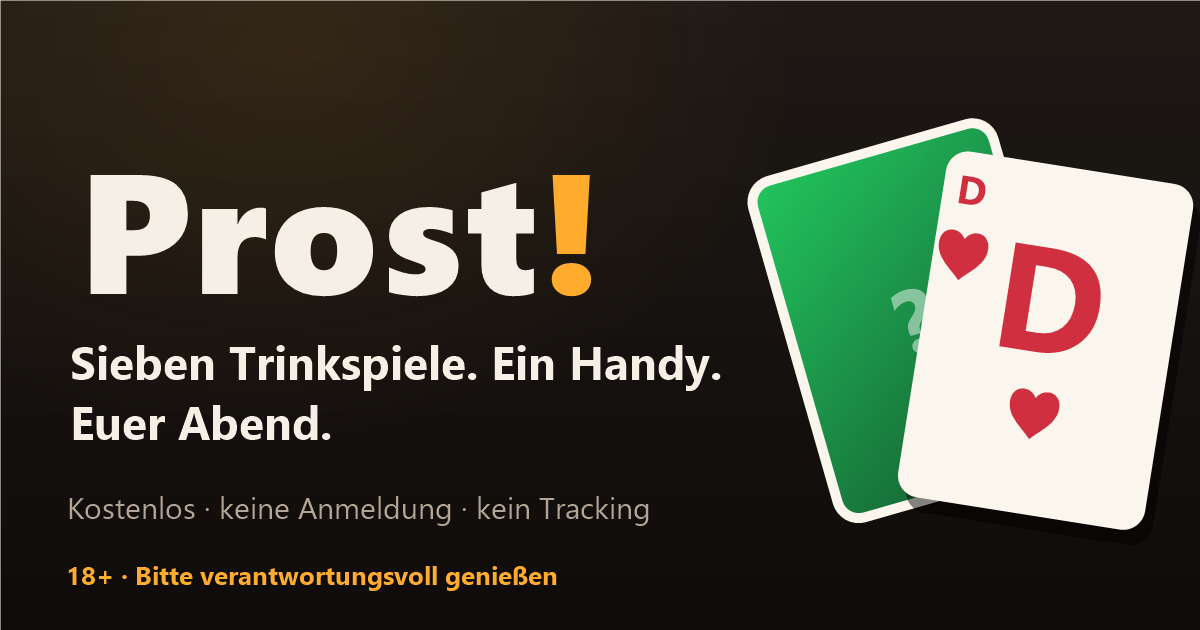
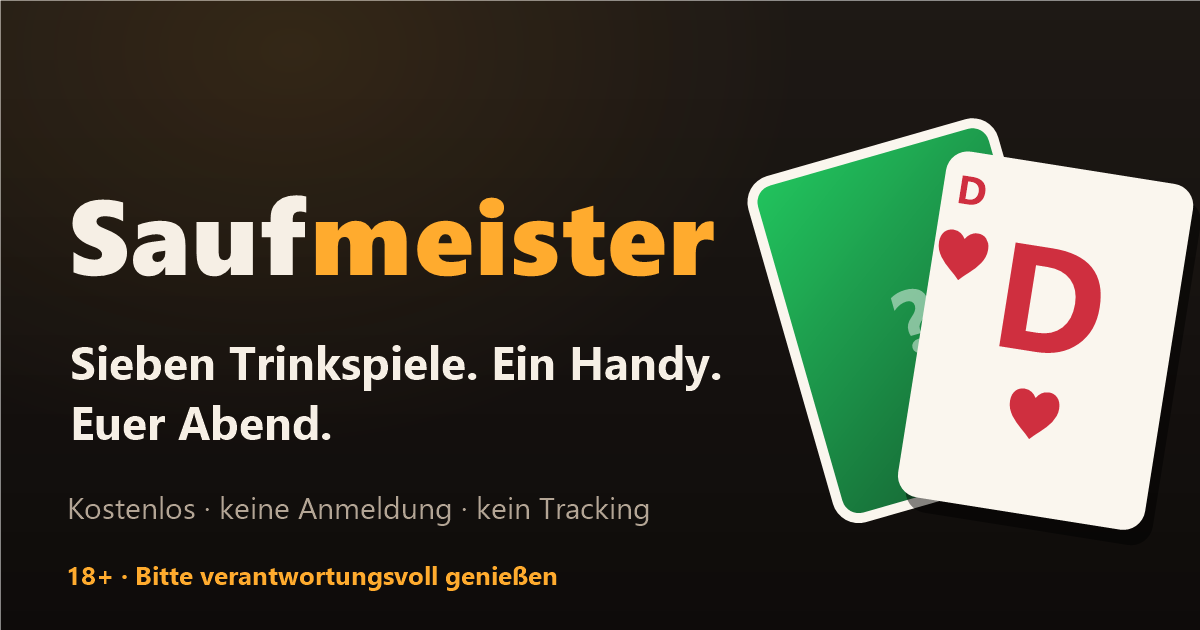
Add files via upload

Changed region(s): [[0.0617, 0.2714, 0.6167, 0.4825]]

diff --git a/index.html b/index.html
@@ -4,14 +4,14 @@
   <meta charset="utf-8">
   <meta name="viewport" content="width=device-width, initial-scale=1, viewport-fit=cover">
   <meta http-equiv="Content-Security-Policy" content="default-src 'self'; script-src 'self'; style-src 'self'; img-src 'self' data:; base-uri 'none'; form-action 'none'; object-src 'none'; frame-ancestors 'none'">
-  <title>Trinkspiele online – 7 kostenlose Partyspiele | Prost!</title>
+  <title>Trinkspiele online – 7 kostenlose Partyspiele | Saufmeister</title>
   <meta name="description" content="7 kostenlose Trinkspiele für euren Partyabend: Ich hab noch nie, Wer würde eher, Bluff, Geheimmissionen & mehr. Ohne App, ohne Anmeldung – direkt im Browser. Ab 18.">
   <meta name="theme-color" content="#161210">
-  <meta property="og:title" content="Prost! – 7 Trinkspiele für euren Partyabend">
+  <meta property="og:title" content="Saufmeister – 7 Trinkspiele für euren Partyabend">
   <meta property="og:description" content="Sieben Trinkspiele, ein Handy, euer Abend. Direkt im Browser spielen – ohne Anmeldung, ohne App-Download.">
   <meta property="og:type" content="website">
   <meta property="og:locale" content="de_DE">
-  <meta property="og:site_name" content="Prost!">
+  <meta property="og:site_name" content="Saufmeister">
   <!-- TODO vor Launch: Domain eintragen und die naechsten Zeilen einkommentieren.
        canonical und og:url je Seite anpassen (z. B. /spiele/bluff.html).
   <link rel="canonical" href="https://DEINE-DOMAIN.de/">
@@ -19,20 +19,20 @@
   <meta property="og:image" content="https://DEINE-DOMAIN.de/assets/img/og-image.png">
   <meta property="og:image:width" content="1200">
   <meta property="og:image:height" content="630">
-  <meta property="og:image:alt" content="Prost! - Sieben Trinkspiele fuer euren Partyabend">
+  <meta property="og:image:alt" content="Saufmeister - Sieben Trinkspiele fuer euren Partyabend">
   <meta name="twitter:card" content="summary_large_image">
   -->
   <link rel="icon" href="assets/img/favicon.svg" type="image/svg+xml">
   <link rel="apple-touch-icon" href="assets/img/apple-touch-icon.png">
   <link rel="manifest" href="manifest.webmanifest">
   <link rel="stylesheet" href="assets/css/style.css">
-  <script type="application/ld+json">{"@context":"https://schema.org","@graph":[{"@type":"WebSite","name":"Prost!","description":"Sieben kostenlose Trinkspiele für den Partyabend – direkt im Browser, ohne Anmeldung.","inLanguage":"de"},{"@type":"ItemList","name":"Trinkspiele auf Prost!","itemListElement":[{"@type":"ListItem","position":1,"name":"Ich hab noch nie"},{"@type":"ListItem","position":2,"name":"Wer würde eher"},{"@type":"ListItem","position":3,"name":"Pass the Phone"},{"@type":"ListItem","position":4,"name":"Double or Nothing"},{"@type":"ListItem","position":5,"name":"Wahr oder falsch"},{"@type":"ListItem","position":6,"name":"Bluff"},{"@type":"ListItem","position":7,"name":"Geheimmissionen"}]}]}</script>
+  <script type="application/ld+json">{"@context":"https://schema.org","@graph":[{"@type":"WebSite","name":"Saufmeister","description":"Sieben kostenlose Trinkspiele für den Partyabend – direkt im Browser, ohne Anmeldung.","inLanguage":"de"},{"@type":"ItemList","name":"Trinkspiele auf Saufmeister","itemListElement":[{"@type":"ListItem","position":1,"name":"Ich hab noch nie"},{"@type":"ListItem","position":2,"name":"Wer würde eher"},{"@type":"ListItem","position":3,"name":"Pass the Phone"},{"@type":"ListItem","position":4,"name":"Double or Nothing"},{"@type":"ListItem","position":5,"name":"Wahr oder falsch"},{"@type":"ListItem","position":6,"name":"Bluff"},{"@type":"ListItem","position":7,"name":"Geheimmissionen"}]}]}</script>
 </head>
 <body>
   <div class="app">
 
     <header class="hero">
-      <h1 class="hero__brand">Prost<em>!</em></h1>
+      <h1 class="hero__brand">Sauf<em>meister</em></h1>
       <p class="hero__tagline">Sieben Trinkspiele. Ein Handy. Euer Abend.</p>
     </header>
 
@@ -145,7 +145,7 @@
     <section class="about">
       <h2>Trinkspiele ohne App und ohne Anmeldung</h2>
       <p>
-        Prost! ist eine kostenlose Sammlung von Trinkspielen für den Abend mit
+        Saufmeister ist eine kostenlose Sammlung von Trinkspielen für den Abend mit
         Freunden – vom Klassiker <a href="spiele/ich-hab-noch-nie.html">Ich hab
         noch nie</a> über das Karten-Zockerspiel
         <a href="spiele/double-or-nothing.html">Double or Nothing</a> bis zu den

diff --git a/spiele/bluff.html b/spiele/bluff.html
@@ -4,14 +4,14 @@
   <meta charset="utf-8">
   <meta name="viewport" content="width=device-width, initial-scale=1, viewport-fit=cover">
   <meta http-equiv="Content-Security-Policy" content="default-src 'self'; script-src 'self'; style-src 'self'; img-src 'self' data:; base-uri 'none'; form-action 'none'; object-src 'none'; frame-ancestors 'none'">
-  <title>Bluff – Quiz-Trinkspiel online spielen | Prost!</title>
+  <title>Bluff – Quiz-Trinkspiel online spielen | Saufmeister</title>
   <meta name="description" content="Bluff online spielen: Setze Schlücke, erfinde eine überzeugende falsche Quiz-Antwort und lege deine Freunde rein. Fällt die Gruppe auf deinen Bluff rein, gewinnst du doppelt.">
   <meta name="theme-color" content="#161210">
-  <meta property="og:title" content="Bluff – Quiz-Trinkspiel | Prost!">
+  <meta property="og:title" content="Bluff – Quiz-Trinkspiel | Saufmeister">
   <meta property="og:description" content="Erfinde die perfekte falsche Antwort – fällt die Gruppe darauf rein, verteilst du den doppelten Einsatz.">
   <meta property="og:type" content="website">
   <meta property="og:locale" content="de_DE">
-  <meta property="og:site_name" content="Prost!">
+  <meta property="og:site_name" content="Saufmeister">
   <!-- TODO vor Launch: Domain eintragen und die naechsten Zeilen einkommentieren.
        canonical und og:url je Seite anpassen (z. B. /spiele/bluff.html).
   <link rel="canonical" href="https://DEINE-DOMAIN.de/">
@@ -19,7 +19,7 @@
   <meta property="og:image" content="https://DEINE-DOMAIN.de/assets/img/og-image.png">
   <meta property="og:image:width" content="1200">
   <meta property="og:image:height" content="630">
-  <meta property="og:image:alt" content="Prost! - Sieben Trinkspiele fuer euren Partyabend">
+  <meta property="og:image:alt" content="Saufmeister - Sieben Trinkspiele fuer euren Partyabend">
   <meta name="twitter:card" content="summary_large_image">
   -->
   <link rel="icon" href="../assets/img/favicon.svg" type="image/svg+xml">
@@ -29,7 +29,7 @@
   <script src="../assets/js/app.js" defer></script>
   <script src="../assets/js/data/bluff.js" defer></script>
   <script src="../assets/js/games/bluff.js" defer></script>
-  <script type="application/ld+json">{"@context":"https://schema.org","@type":"Game","name":"Bluff","description":"Quiz-Bluff-Hybrid: Einsatz setzen, eine überzeugende falsche Antwort erfinden und die Gruppe reinlegen – bei Erfolg gibt es den doppelten Einsatz.","inLanguage":"de","isAccessibleForFree":true,"gamePlatform":"Webbrowser","numberOfPlayers":{"@type":"QuantitativeValue","minValue":3},"audience":{"@type":"PeopleAudience","suggestedMinAge":18},"isPartOf":{"@type":"WebSite","name":"Prost!"}}</script>
+  <script type="application/ld+json">{"@context":"https://schema.org","@type":"Game","name":"Bluff","description":"Quiz-Bluff-Hybrid: Einsatz setzen, eine überzeugende falsche Antwort erfinden und die Gruppe reinlegen – bei Erfolg gibt es den doppelten Einsatz.","inLanguage":"de","isAccessibleForFree":true,"gamePlatform":"Webbrowser","numberOfPlayers":{"@type":"QuantitativeValue","minValue":3},"audience":{"@type":"PeopleAudience","suggestedMinAge":18},"isPartOf":{"@type":"WebSite","name":"Saufmeister"}}</script>
 </head>
 <body class="g-blf">
   <div class="app">

diff --git a/spiele/double-or-nothing.html b/spiele/double-or-nothing.html
@@ -4,14 +4,14 @@
   <meta charset="utf-8">
   <meta name="viewport" content="width=device-width, initial-scale=1, viewport-fit=cover">
   <meta http-equiv="Content-Security-Policy" content="default-src 'self'; script-src 'self'; style-src 'self'; img-src 'self' data:; base-uri 'none'; form-action 'none'; object-src 'none'; frame-ancestors 'none'">
-  <title>Double or Nothing – Karten-Trinkspiel online | Prost!</title>
+  <title>Double or Nothing – Karten-Trinkspiel online | Saufmeister</title>
   <meta name="description" content="Double or Nothing online spielen: Karte aufdecken und Schlücke sicher verteilen – oder riskieren, dass die nächste Karte höher ist? Ladies first: Hier schlägt die Dame sogar das Ass.">
   <meta name="theme-color" content="#161210">
-  <meta property="og:title" content="Double or Nothing – Karten-Trinkspiel | Prost!">
+  <meta property="og:title" content="Double or Nothing – Karten-Trinkspiel | Saufmeister">
   <meta property="og:description" content="Sicher kassieren oder alles riskieren? Ladies first – die Dame ist hier die höchste Karte.">
   <meta property="og:type" content="website">
   <meta property="og:locale" content="de_DE">
-  <meta property="og:site_name" content="Prost!">
+  <meta property="og:site_name" content="Saufmeister">
   <!-- TODO vor Launch: Domain eintragen und die naechsten Zeilen einkommentieren.
        canonical und og:url je Seite anpassen (z. B. /spiele/bluff.html).
   <link rel="canonical" href="https://DEINE-DOMAIN.de/">
@@ -19,7 +19,7 @@
   <meta property="og:image" content="https://DEINE-DOMAIN.de/assets/img/og-image.png">
   <meta property="og:image:width" content="1200">
   <meta property="og:image:height" content="630">
-  <meta property="og:image:alt" content="Prost! - Sieben Trinkspiele fuer euren Partyabend">
+  <meta property="og:image:alt" content="Saufmeister - Sieben Trinkspiele fuer euren Partyabend">
   <meta name="twitter:card" content="summary_large_image">
   -->
   <link rel="icon" href="../assets/img/favicon.svg" type="image/svg+xml">
@@ -28,7 +28,7 @@
   <link rel="stylesheet" href="../assets/css/style.css">
   <script src="../assets/js/app.js" defer></script>
   <script src="../assets/js/games/double-or-nothing.js" defer></script>
-  <script type="application/ld+json">{"@context":"https://schema.org","@type":"Game","name":"Double or Nothing","description":"Push-your-luck-Kartenspiel: Schlücke sicher verteilen oder auf eine höhere Karte wetten. Ladies first – die Dame ist die höchste Karte.","inLanguage":"de","isAccessibleForFree":true,"gamePlatform":"Webbrowser","numberOfPlayers":{"@type":"QuantitativeValue","minValue":2},"audience":{"@type":"PeopleAudience","suggestedMinAge":18},"isPartOf":{"@type":"WebSite","name":"Prost!"}}</script>
+  <script type="application/ld+json">{"@context":"https://schema.org","@type":"Game","name":"Double or Nothing","description":"Push-your-luck-Kartenspiel: Schlücke sicher verteilen oder auf eine höhere Karte wetten. Ladies first – die Dame ist die höchste Karte.","inLanguage":"de","isAccessibleForFree":true,"gamePlatform":"Webbrowser","numberOfPlayers":{"@type":"QuantitativeValue","minValue":2},"audience":{"@type":"PeopleAudience","suggestedMinAge":18},"isPartOf":{"@type":"WebSite","name":"Saufmeister"}}</script>
 </head>
 <body class="g-don">
   <div class="app">

diff --git a/spiele/geheimmissionen.html b/spiele/geheimmissionen.html
@@ -4,14 +4,14 @@
   <meta charset="utf-8">
   <meta name="viewport" content="width=device-width, initial-scale=1, viewport-fit=cover">
   <meta http-equiv="Content-Security-Policy" content="default-src 'self'; script-src 'self'; style-src 'self'; img-src 'self' data:; base-uri 'none'; form-action 'none'; object-src 'none'; frame-ancestors 'none'">
-  <title>Geheimmissionen – Trinkspiel für den ganzen Abend | Prost!</title>
+  <title>Geheimmissionen – Trinkspiel für den ganzen Abend | Saufmeister</title>
   <meta name="description" content="Geheimmissionen online spielen: Jede Person zieht 3 geheime Aufträge und versucht, sie unbemerkt bei anderen auszulösen. Das Trinkspiel, das den ganzen Abend nebenher läuft.">
   <meta name="theme-color" content="#161210">
-  <meta property="og:title" content="Geheimmissionen – Trinkspiel | Prost!">
+  <meta property="og:title" content="Geheimmissionen – Trinkspiel | Saufmeister">
   <meta property="og:description" content="3 geheime Missionen pro Person – wer sie unbemerkt auslöst, verteilt Schlücke. Das Spiel neben dem Spiel.">
   <meta property="og:type" content="website">
   <meta property="og:locale" content="de_DE">
-  <meta property="og:site_name" content="Prost!">
+  <meta property="og:site_name" content="Saufmeister">
   <!-- TODO vor Launch: Domain eintragen und die naechsten Zeilen einkommentieren.
        canonical und og:url je Seite anpassen (z. B. /spiele/bluff.html).
   <link rel="canonical" href="https://DEINE-DOMAIN.de/">
@@ -19,7 +19,7 @@
   <meta property="og:image" content="https://DEINE-DOMAIN.de/assets/img/og-image.png">
   <meta property="og:image:width" content="1200">
   <meta property="og:image:height" content="630">
-  <meta property="og:image:alt" content="Prost! - Sieben Trinkspiele fuer euren Partyabend">
+  <meta property="og:image:alt" content="Saufmeister - Sieben Trinkspiele fuer euren Partyabend">
   <meta name="twitter:card" content="summary_large_image">
   -->
   <link rel="icon" href="../assets/img/favicon.svg" type="image/svg+xml">
@@ -29,7 +29,7 @@
   <script src="../assets/js/app.js" defer></script>
   <script src="../assets/js/data/geheimmissionen.js" defer></script>
   <script src="../assets/js/games/geheimmissionen.js" defer></script>
-  <script type="application/ld+json">{"@context":"https://schema.org","@type":"Game","name":"Geheimmissionen","description":"Hintergrundspiel für den ganzen Abend: Jede Person zieht 3 geheime Missionen und versucht, sie unbemerkt bei anderen auszulösen. Über 1.000 Missionen.","inLanguage":"de","isAccessibleForFree":true,"gamePlatform":"Webbrowser","numberOfPlayers":{"@type":"QuantitativeValue","minValue":3},"audience":{"@type":"PeopleAudience","suggestedMinAge":18},"isPartOf":{"@type":"WebSite","name":"Prost!"}}</script>
+  <script type="application/ld+json">{"@context":"https://schema.org","@type":"Game","name":"Geheimmissionen","description":"Hintergrundspiel für den ganzen Abend: Jede Person zieht 3 geheime Missionen und versucht, sie unbemerkt bei anderen auszulösen. Über 1.000 Missionen.","inLanguage":"de","isAccessibleForFree":true,"gamePlatform":"Webbrowser","numberOfPlayers":{"@type":"QuantitativeValue","minValue":3},"audience":{"@type":"PeopleAudience","suggestedMinAge":18},"isPartOf":{"@type":"WebSite","name":"Saufmeister"}}</script>
 </head>
 <body class="g-ghm">
   <div class="app">

diff --git a/spiele/ich-hab-noch-nie.html b/spiele/ich-hab-noch-nie.html
@@ -4,14 +4,14 @@
   <meta charset="utf-8">
   <meta name="viewport" content="width=device-width, initial-scale=1, viewport-fit=cover">
   <meta http-equiv="Content-Security-Policy" content="default-src 'self'; script-src 'self'; style-src 'self'; img-src 'self' data:; base-uri 'none'; form-action 'none'; object-src 'none'; frame-ancestors 'none'">
-  <title>Ich hab noch nie – Trinkspiel online spielen | Prost!</title>
+  <title>Ich hab noch nie – Trinkspiel online spielen | Saufmeister</title>
   <meta name="description" content="Ich hab noch nie online spielen: über 60 freche Aussagen für die Partyrunde. Wer es schon gemacht hat, trinkt. Kostenlos im Browser, ein Handy reicht.">
   <meta name="theme-color" content="#161210">
-  <meta property="og:title" content="Ich hab noch nie – Trinkspiel | Prost!">
+  <meta property="og:title" content="Ich hab noch nie – Trinkspiel | Saufmeister">
   <meta property="og:description" content="Der Klassiker unter den Trinkspielen: Wer die Aussage schon erlebt hat, trinkt einen Schluck.">
   <meta property="og:type" content="website">
   <meta property="og:locale" content="de_DE">
-  <meta property="og:site_name" content="Prost!">
+  <meta property="og:site_name" content="Saufmeister">
   <!-- TODO vor Launch: Domain eintragen und die naechsten Zeilen einkommentieren.
        canonical und og:url je Seite anpassen (z. B. /spiele/bluff.html).
   <link rel="canonical" href="https://DEINE-DOMAIN.de/">
@@ -19,7 +19,7 @@
   <meta property="og:image" content="https://DEINE-DOMAIN.de/assets/img/og-image.png">
   <meta property="og:image:width" content="1200">
   <meta property="og:image:height" content="630">
-  <meta property="og:image:alt" content="Prost! - Sieben Trinkspiele fuer euren Partyabend">
+  <meta property="og:image:alt" content="Saufmeister - Sieben Trinkspiele fuer euren Partyabend">
   <meta name="twitter:card" content="summary_large_image">
   -->
   <link rel="icon" href="../assets/img/favicon.svg" type="image/svg+xml">
@@ -29,7 +29,7 @@
   <script src="../assets/js/app.js" defer></script>
   <script src="../assets/js/data/ich-hab-noch-nie.js" defer></script>
   <script src="../assets/js/games/simple-card.js" defer></script>
-  <script type="application/ld+json">{"@context":"https://schema.org","@type":"Game","name":"Ich hab noch nie","description":"Der Trinkspiel-Klassiker: Eine Aussage wird vorgelesen – wer sie schon erlebt hat, trinkt einen Schluck. Über 3.700 Aussagen in 20 wählbaren Kategorien.","inLanguage":"de","isAccessibleForFree":true,"gamePlatform":"Webbrowser","numberOfPlayers":{"@type":"QuantitativeValue","minValue":2},"audience":{"@type":"PeopleAudience","suggestedMinAge":18},"isPartOf":{"@type":"WebSite","name":"Prost!"}}</script>
+  <script type="application/ld+json">{"@context":"https://schema.org","@type":"Game","name":"Ich hab noch nie","description":"Der Trinkspiel-Klassiker: Eine Aussage wird vorgelesen – wer sie schon erlebt hat, trinkt einen Schluck. Über 3.700 Aussagen in 20 wählbaren Kategorien.","inLanguage":"de","isAccessibleForFree":true,"gamePlatform":"Webbrowser","numberOfPlayers":{"@type":"QuantitativeValue","minValue":2},"audience":{"@type":"PeopleAudience","suggestedMinAge":18},"isPartOf":{"@type":"WebSite","name":"Saufmeister"}}</script>
 </head>
 <body class="g-ihn">
   <div class="app">

diff --git a/spiele/pass-the-phone.html b/spiele/pass-the-phone.html
@@ -4,14 +4,14 @@
   <meta charset="utf-8">
   <meta name="viewport" content="width=device-width, initial-scale=1, viewport-fit=cover">
   <meta http-equiv="Content-Security-Policy" content="default-src 'self'; script-src 'self'; style-src 'self'; img-src 'self' data:; base-uri 'none'; form-action 'none'; object-src 'none'; frame-ancestors 'none'">
-  <title>Pass the Phone – Trinkspiel online spielen | Prost!</title>
+  <title>Pass the Phone – Trinkspiel online spielen | Saufmeister</title>
   <meta name="description" content="Pass the Phone online spielen: Das Handy wandert zu der Person, auf die die Aussage am besten passt. Trifft sie zu, wird getrunken. Kostenlos im Browser spielen.">
   <meta name="theme-color" content="#161210">
-  <meta property="og:title" content="Pass the Phone – Trinkspiel | Prost!">
+  <meta property="og:title" content="Pass the Phone – Trinkspiel | Saufmeister">
   <meta property="og:description" content="Gib das Handy an die Person, auf die die Aussage am besten passt – trifft sie zu, trinkt sie.">
   <meta property="og:type" content="website">
   <meta property="og:locale" content="de_DE">
-  <meta property="og:site_name" content="Prost!">
+  <meta property="og:site_name" content="Saufmeister">
   <!-- TODO vor Launch: Domain eintragen und die naechsten Zeilen einkommentieren.
        canonical und og:url je Seite anpassen (z. B. /spiele/bluff.html).
   <link rel="canonical" href="https://DEINE-DOMAIN.de/">
@@ -19,7 +19,7 @@
   <meta property="og:image" content="https://DEINE-DOMAIN.de/assets/img/og-image.png">
   <meta property="og:image:width" content="1200">
   <meta property="og:image:height" content="630">
-  <meta property="og:image:alt" content="Prost! - Sieben Trinkspiele fuer euren Partyabend">
+  <meta property="og:image:alt" content="Saufmeister - Sieben Trinkspiele fuer euren Partyabend">
   <meta name="twitter:card" content="summary_large_image">
   -->
   <link rel="icon" href="../assets/img/favicon.svg" type="image/svg+xml">
@@ -29,7 +29,7 @@
   <script src="../assets/js/app.js" defer></script>
   <script src="../assets/js/data/pass-the-phone.js" defer></script>
   <script src="../assets/js/games/simple-card.js" defer></script>
-  <script type="application/ld+json">{"@context":"https://schema.org","@type":"Game","name":"Pass the Phone","description":"Das Handy wandert zu der Person, auf die die Aussage am besten passt – trifft sie zu, wird getrunken. Über 2.500 Prompts in 20 Kategorien.","inLanguage":"de","isAccessibleForFree":true,"gamePlatform":"Webbrowser","numberOfPlayers":{"@type":"QuantitativeValue","minValue":3},"audience":{"@type":"PeopleAudience","suggestedMinAge":18},"isPartOf":{"@type":"WebSite","name":"Prost!"}}</script>
+  <script type="application/ld+json">{"@context":"https://schema.org","@type":"Game","name":"Pass the Phone","description":"Das Handy wandert zu der Person, auf die die Aussage am besten passt – trifft sie zu, wird getrunken. Über 2.500 Prompts in 20 Kategorien.","inLanguage":"de","isAccessibleForFree":true,"gamePlatform":"Webbrowser","numberOfPlayers":{"@type":"QuantitativeValue","minValue":3},"audience":{"@type":"PeopleAudience","suggestedMinAge":18},"isPartOf":{"@type":"WebSite","name":"Saufmeister"}}</script>
 </head>
 <body class="g-ptp">
   <div class="app">

diff --git a/spiele/wahr-oder-falsch.html b/spiele/wahr-oder-falsch.html
@@ -4,14 +4,14 @@
   <meta charset="utf-8">
   <meta name="viewport" content="width=device-width, initial-scale=1, viewport-fit=cover">
   <meta http-equiv="Content-Security-Policy" content="default-src 'self'; script-src 'self'; style-src 'self'; img-src 'self' data:; base-uri 'none'; form-action 'none'; object-src 'none'; frame-ancestors 'none'">
-  <title>Wahr oder falsch – Partyspiel über Freunde | Prost!</title>
+  <title>Wahr oder falsch – Partyspiel über Freunde | Saufmeister</title>
   <meta name="description" content="Wahr oder falsch online spielen: Eine Behauptung über jemanden aus eurer Runde – die Gruppe rät, ob sie stimmt. Wer falsch liegt, trinkt. Kostenlos im Browser.">
   <meta name="theme-color" content="#161210">
-  <meta property="og:title" content="Wahr oder falsch – Partyspiel | Prost!">
+  <meta property="og:title" content="Wahr oder falsch – Partyspiel | Saufmeister">
   <meta property="og:description" content="Wie gut kennt ihr euch wirklich? Behauptungen über eure Runde – wer falsch tippt, trinkt.">
   <meta property="og:type" content="website">
   <meta property="og:locale" content="de_DE">
-  <meta property="og:site_name" content="Prost!">
+  <meta property="og:site_name" content="Saufmeister">
   <!-- TODO vor Launch: Domain eintragen und die naechsten Zeilen einkommentieren.
        canonical und og:url je Seite anpassen (z. B. /spiele/bluff.html).
   <link rel="canonical" href="https://DEINE-DOMAIN.de/">
@@ -19,7 +19,7 @@
   <meta property="og:image" content="https://DEINE-DOMAIN.de/assets/img/og-image.png">
   <meta property="og:image:width" content="1200">
   <meta property="og:image:height" content="630">
-  <meta property="og:image:alt" content="Prost! - Sieben Trinkspiele fuer euren Partyabend">
+  <meta property="og:image:alt" content="Saufmeister - Sieben Trinkspiele fuer euren Partyabend">
   <meta name="twitter:card" content="summary_large_image">
   -->
   <link rel="icon" href="../assets/img/favicon.svg" type="image/svg+xml">
@@ -29,7 +29,7 @@
   <script src="../assets/js/app.js" defer></script>
   <script src="../assets/js/data/wahr-oder-falsch.js" defer></script>
   <script src="../assets/js/games/wahr-oder-falsch.js" defer></script>
-  <script type="application/ld+json">{"@context":"https://schema.org","@type":"Game","name":"Wahr oder falsch","description":"Eine Behauptung über jemanden aus der Runde – die Gruppe rät, ob sie stimmt. Wer falsch tippt, trinkt. Über 400 Behauptungen in 20 Kategorien.","inLanguage":"de","isAccessibleForFree":true,"gamePlatform":"Webbrowser","numberOfPlayers":{"@type":"QuantitativeValue","minValue":3},"audience":{"@type":"PeopleAudience","suggestedMinAge":18},"isPartOf":{"@type":"WebSite","name":"Prost!"}}</script>
+  <script type="application/ld+json">{"@context":"https://schema.org","@type":"Game","name":"Wahr oder falsch","description":"Eine Behauptung über jemanden aus der Runde – die Gruppe rät, ob sie stimmt. Wer falsch tippt, trinkt. Über 400 Behauptungen in 20 Kategorien.","inLanguage":"de","isAccessibleForFree":true,"gamePlatform":"Webbrowser","numberOfPlayers":{"@type":"QuantitativeValue","minValue":3},"audience":{"@type":"PeopleAudience","suggestedMinAge":18},"isPartOf":{"@type":"WebSite","name":"Saufmeister"}}</script>
 </head>
 <body class="g-wof">
   <div class="app">

diff --git a/spiele/wer-wuerde-eher.html b/spiele/wer-wuerde-eher.html
@@ -4,14 +4,14 @@
   <meta charset="utf-8">
   <meta name="viewport" content="width=device-width, initial-scale=1, viewport-fit=cover">
   <meta http-equiv="Content-Security-Policy" content="default-src 'self'; script-src 'self'; style-src 'self'; img-src 'self' data:; base-uri 'none'; form-action 'none'; object-src 'none'; frame-ancestors 'none'">
-  <title>Wer würde eher – Partyspiel online spielen | Prost!</title>
+  <title>Wer würde eher – Partyspiel online spielen | Saufmeister</title>
   <meta name="description" content="Wer würde eher online spielen: über 60 Fragen für die Partyrunde. Auf 3, 2, 1 zeigen alle gleichzeitig – wer die meisten Stimmen bekommt, trinkt. Kostenlos im Browser.">
   <meta name="theme-color" content="#161210">
-  <meta property="og:title" content="Wer würde eher – Partyspiel | Prost!">
+  <meta property="og:title" content="Wer würde eher – Partyspiel | Saufmeister">
   <meta property="og:description" content="Alle zeigen gleichzeitig auf eine Person – wer die meisten Finger auf sich hat, trinkt.">
   <meta property="og:type" content="website">
   <meta property="og:locale" content="de_DE">
-  <meta property="og:site_name" content="Prost!">
+  <meta property="og:site_name" content="Saufmeister">
   <!-- TODO vor Launch: Domain eintragen und die naechsten Zeilen einkommentieren.
        canonical und og:url je Seite anpassen (z. B. /spiele/bluff.html).
   <link rel="canonical" href="https://DEINE-DOMAIN.de/">
@@ -19,7 +19,7 @@
   <meta property="og:image" content="https://DEINE-DOMAIN.de/assets/img/og-image.png">
   <meta property="og:image:width" content="1200">
   <meta property="og:image:height" content="630">
-  <meta property="og:image:alt" content="Prost! - Sieben Trinkspiele fuer euren Partyabend">
+  <meta property="og:image:alt" content="Saufmeister - Sieben Trinkspiele fuer euren Partyabend">
   <meta name="twitter:card" content="summary_large_image">
   -->
   <link rel="icon" href="../assets/img/favicon.svg" type="image/svg+xml">
@@ -29,7 +29,7 @@
   <script src="../assets/js/app.js" defer></script>
   <script src="../assets/js/data/wer-wuerde-eher.js" defer></script>
   <script src="../assets/js/games/simple-card.js" defer></script>
-  <script type="application/ld+json">{"@context":"https://schema.org","@type":"Game","name":"Wer würde eher","description":"Partyspiel: Auf 3, 2, 1 zeigen alle gleichzeitig auf eine Person – wer die meisten Stimmen bekommt, trinkt. Über 600 Fragen in 20 Kategorien.","inLanguage":"de","isAccessibleForFree":true,"gamePlatform":"Webbrowser","numberOfPlayers":{"@type":"QuantitativeValue","minValue":3},"audience":{"@type":"PeopleAudience","suggestedMinAge":18},"isPartOf":{"@type":"WebSite","name":"Prost!"}}</script>
+  <script type="application/ld+json">{"@context":"https://schema.org","@type":"Game","name":"Wer würde eher","description":"Partyspiel: Auf 3, 2, 1 zeigen alle gleichzeitig auf eine Person – wer die meisten Stimmen bekommt, trinkt. Über 600 Fragen in 20 Kategorien.","inLanguage":"de","isAccessibleForFree":true,"gamePlatform":"Webbrowser","numberOfPlayers":{"@type":"QuantitativeValue","minValue":3},"audience":{"@type":"PeopleAudience","suggestedMinAge":18},"isPartOf":{"@type":"WebSite","name":"Saufmeister"}}</script>
 </head>
 <body class="g-wwe">
   <div class="app">

diff --git a/assets/css/style.css b/assets/css/style.css
@@ -1,5 +1,5 @@
 /* ==========================================================================
-   Prost! – Trinkspiele
+   Saufmeister – Trinkspiele
    Dunkles, warmes Design mit App-Feel. Keine externen Fonts/Ressourcen.
    ========================================================================== */
 
@@ -92,7 +92,7 @@ h1, h2, h3, p { margin: 0; }
 }
 
 .hero__brand {
-  font-size: clamp(2.4rem, 11vw, 3.4rem);
+  font-size: clamp(2rem, 8.5vw, 3.1rem);
   font-weight: 900;
   letter-spacing: -0.03em;
   line-height: 1;

diff --git a/assets/js/games/wahr-oder-falsch.js b/assets/js/games/wahr-oder-falsch.js
@@ -7,12 +7,12 @@
   const data = window.WOF_DATA;
   if (!data || !Array.isArray(data.categories)) return;
 
-  const STORAGE_KEY = "prost-wof-players";
+  const STORAGE_KEY = "sm-wof-players";
   const MAX_PLAYERS = 12;
   const MAX_NAME_LEN = 20;
 
   const stage = App.$("#game");
-  const catState = App.catState("prost-cats-wahr-oder-falsch", data.categories);
+  const catState = App.catState("sm-cats-wahr-oder-falsch", data.categories);
 
   let players = loadPlayers();
   let lastPerson = null;

diff --git a/datenschutz.html b/datenschutz.html
@@ -4,8 +4,8 @@
   <meta charset="utf-8">
   <meta name="viewport" content="width=device-width, initial-scale=1, viewport-fit=cover">
   <meta http-equiv="Content-Security-Policy" content="default-src 'self'; script-src 'self'; style-src 'self'; img-src 'self' data:; base-uri 'none'; form-action 'none'; object-src 'none'; frame-ancestors 'none'">
-  <title>Datenschutzerklärung | Prost!</title>
-  <meta name="description" content="Datenschutzerklärung von Prost! – kurze Version: keine Cookies, kein Tracking, keine Datenerhebung durch uns.">
+  <title>Datenschutzerklärung | Saufmeister</title>
+  <meta name="description" content="Datenschutzerklärung von Saufmeister – kurze Version: keine Cookies, kein Tracking, keine Datenerhebung durch uns.">
   <meta name="robots" content="noindex, follow">
   <meta name="theme-color" content="#161210">
   <link rel="icon" href="assets/img/favicon.svg" type="image/svg+xml">

diff --git a/impressum.html b/impressum.html
@@ -4,8 +4,8 @@
   <meta charset="utf-8">
   <meta name="viewport" content="width=device-width, initial-scale=1, viewport-fit=cover">
   <meta http-equiv="Content-Security-Policy" content="default-src 'self'; script-src 'self'; style-src 'self'; img-src 'self' data:; base-uri 'none'; form-action 'none'; object-src 'none'; frame-ancestors 'none'">
-  <title>Impressum | Prost!</title>
-  <meta name="description" content="Impressum und Anbieterkennzeichnung von Prost! – Trinkspiele für den Partyabend.">
+  <title>Impressum | Saufmeister</title>
+  <meta name="description" content="Impressum und Anbieterkennzeichnung von Saufmeister – Trinkspiele für den Partyabend.">
   <meta name="robots" content="noindex, follow">
   <meta name="theme-color" content="#161210">
   <link rel="icon" href="assets/img/favicon.svg" type="image/svg+xml">